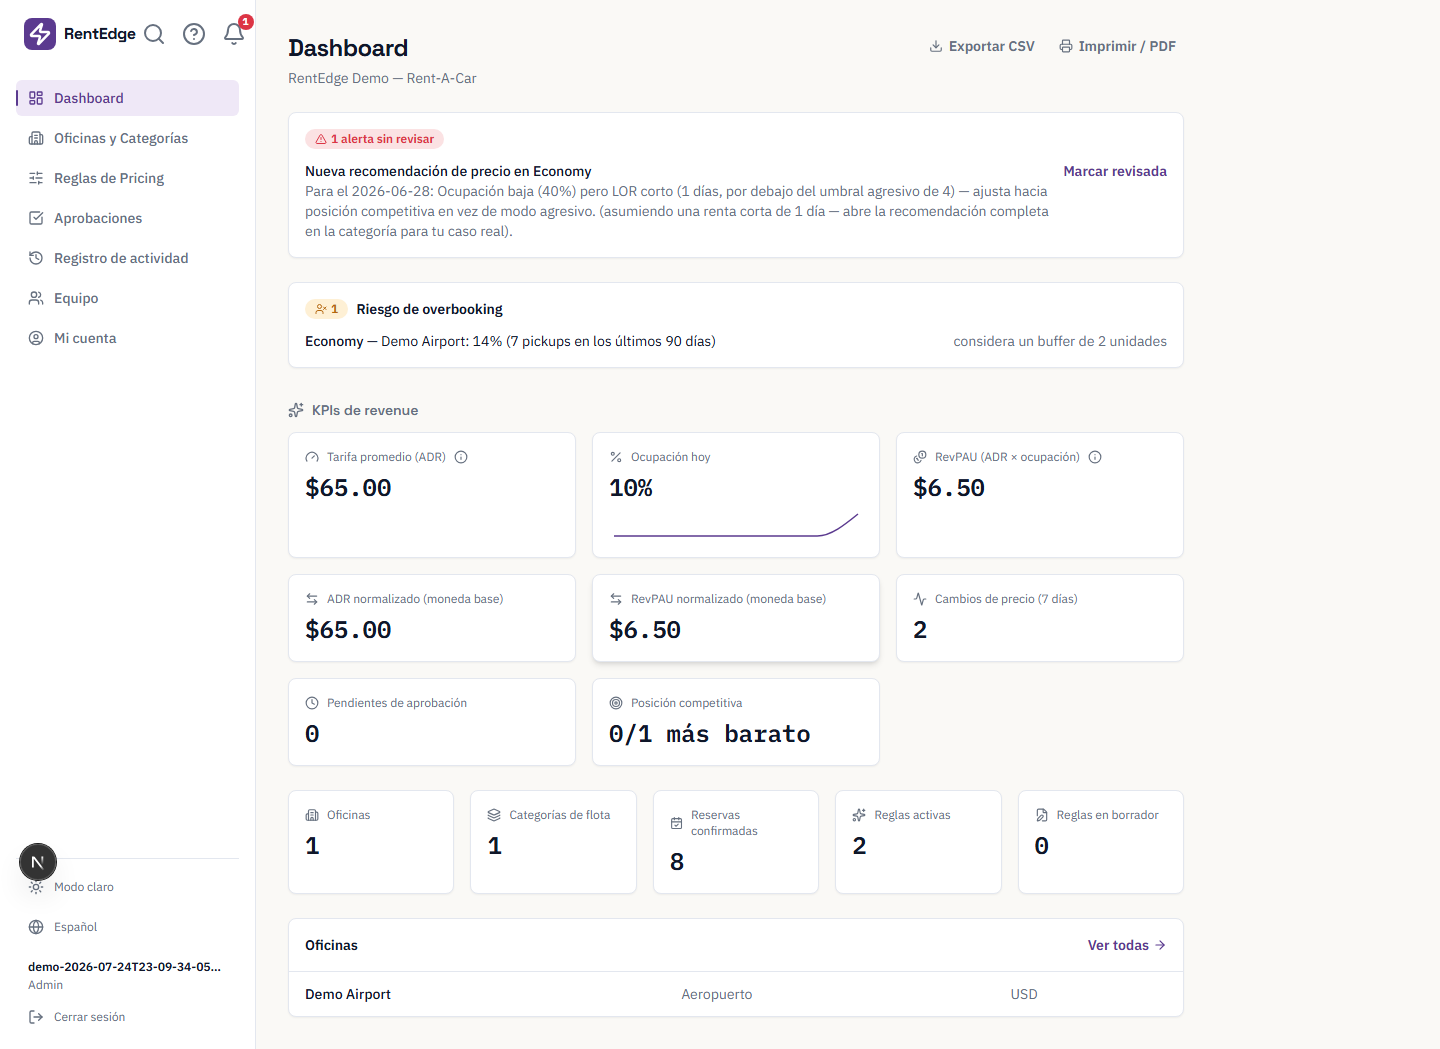
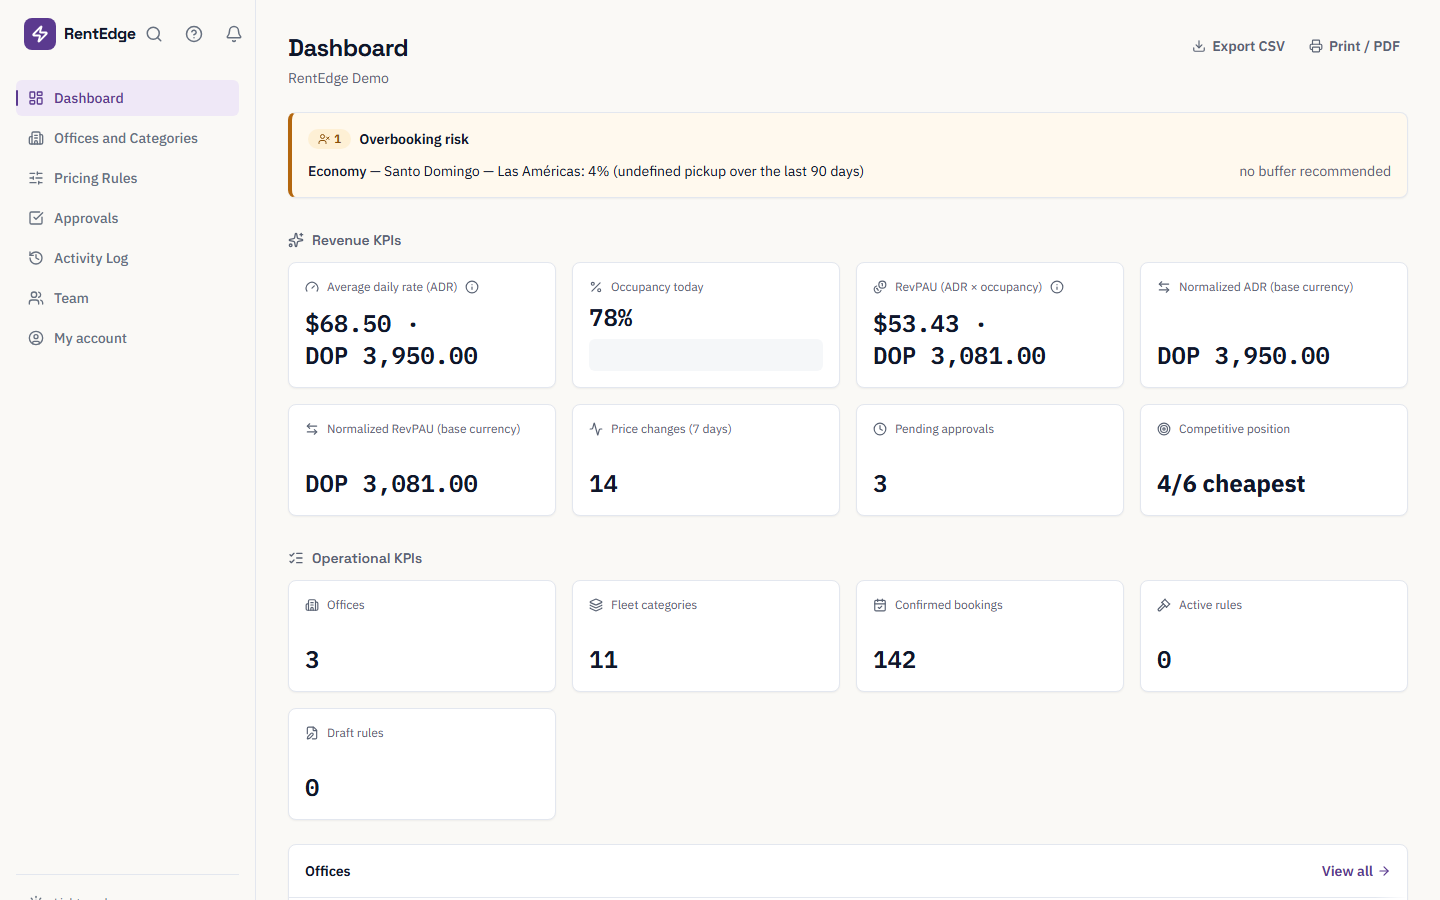
Update RentEdge entry: round-2 audit close-out, real screenshots
RentEdge's PR #2 (second-pass /audit + /visual-audit) merged 2026-08-15
but wasn't reflected here yet: dashboard KPI N+1 fix, rules-engine
completion (season + competitor-price-delta facts), and 17 visual/UX
findings closed (WCAG badge contrast, shared PageHeader, mobile overflow).

- New bullet (en/es) covering what round 2 actually shipped.
- Backend test count corrected to the real total (958 API + 309 web = 1,267).
- Screenshots retaken against the current build (violet identity;
  previous 3 predated that color-identity change from 2026-07-24).

diff --git a/src/content/projects.ts b/src/content/projects.ts
@@ -84,6 +84,7 @@ export const projects: Project[] = [
         "An SSRF guard (with real DNS-rebinding resolution, not string matching) re-validates and pins every outbound tenant webhook to its checked IP at delivery time, not just when the channel is saved -- closing the gap where a hostname could be re-pointed at a cloud metadata endpoint after passing validation; JWT sessions carry live revocation so deactivating a user actually invalidates their existing token",
         "Durable job queues: every BullMQ queue bounds its completed/failed job history and retries with backoff, so the audit-log queue can't silently drop an entry on a transient DB blip",
         "Accessibility pass against a full interface-guidelines checklist: real roving-tabindex ARIA tabs, visible keyboard focus rings app-wide, live-region announcements for async errors, and every stateful filter/tab reflected in the URL",
+        "A second audit round closed the rules engine's last open gaps -- seasonal demand index and competitor price deltas are now first-class rule facts, with thresholds each tenant sets on its own -- and fixed a dashboard KPI query that was loading a tenant's entire pricing-decision history on every request; the same round cleared all 17 findings from a dedicated visual/UX audit, including WCAG contrast fixes on every status badge and a shared page-header layout across the app",
       ],
       es: [
         "Monorepo NestJS + Next.js (Turborepo) con una capa de microservicios en Python para scraping y forecasting con ML, aislada por perfil de carga",
@@ -98,10 +99,11 @@ export const projects: Project[] = [
         "Un guard anti-SSRF (con resolución real de DNS-rebinding, no comparación de strings) re-valida y fija cada webhook saliente de tenant a su IP verificada en el momento del envío, no solo al guardar el canal -- cerrando el hueco donde un hostname podía re-apuntar a un endpoint de metadata de la nube después de pasar la validación; las sesiones JWT tienen revocación real, así que desactivar un usuario invalida su token en el acto",
         "Colas de trabajo durables: cada cola de BullMQ acota su historial de jobs completados/fallidos y reintenta con backoff, para que la cola del log de auditoría no pierda una entrada en silencio por un blip transitorio de la DB",
         "Pasada de accesibilidad contra un checklist completo de interface guidelines: pestañas ARIA con roving-tabindex real, foco de teclado visible en toda la app, anuncios de región viva para errores asíncronos, y cada filtro/tab con estado reflejado en la URL",
+        "Una segunda ronda de auditoría cerró los últimos huecos del motor de reglas -- el índice de demanda estacional y los deltas de precio de la competencia ya son facts de primera clase, con umbrales que cada tenant define por su cuenta -- y resolvió una consulta de KPIs del dashboard que cargaba el historial completo de decisiones de precio en cada request; la misma ronda corrigió los 17 hallazgos de UX/accesibilidad de una auditoría visual dedicada, incluyendo contraste WCAG en cada badge de estado y un encabezado de página compartido en toda la app",
       ],
     },
     metrics: [
-      { label: { en: "Backend tests", es: "Tests de backend" }, value: "1,060+ (unit + e2e)" },
+      { label: { en: "Backend tests", es: "Tests de backend" }, value: "1,267 (unit + e2e)" },
       { label: { en: "Services", es: "Servicios" }, value: "API + Web + 2 Python microservices" },
     ],
     links: [{ label: PRIVATE_LABEL, href: "mailto:kelvisguerrero03@gmail.com?subject=RentEdge%20repo%20access", icon: "external" }],
